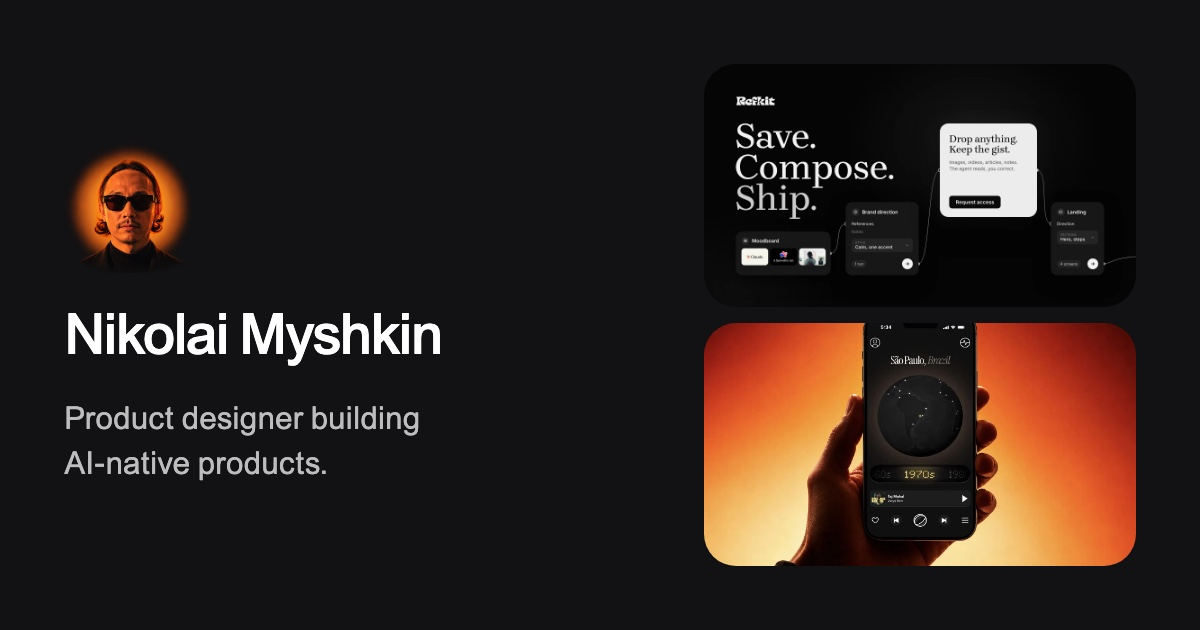
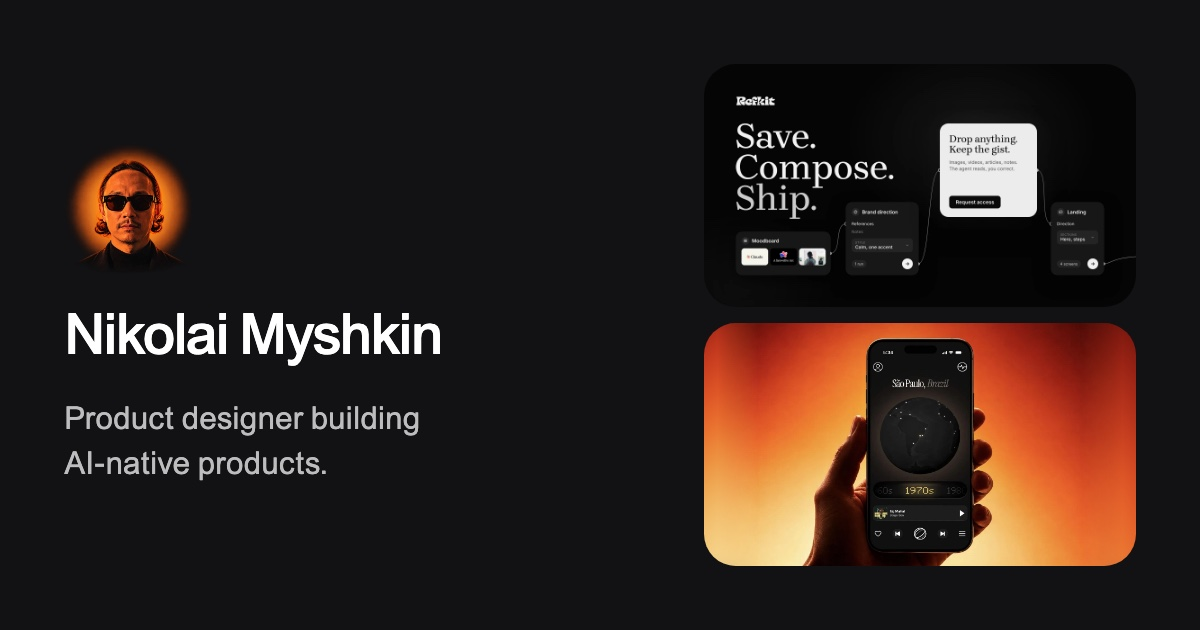
Link previews: whole Atlas phone, new Atlas case preview

Changed region(s): [[0.5858, 0.5127, 0.9558, 0.9048]]

diff --git a/case-atlas.html b/case-atlas.html
@@ -8,7 +8,7 @@
     <meta property="og:url" content="https://niko-myshkin.github.io/case-atlas.html" />
     <meta property="og:title" content="Atlas · Music Time Machine" />
     <meta property="og:description" content="Spin to a city, pick a decade, and hear its music. A product design case study by Nikolai Myshkin." />
-    <meta property="og:image" content="https://niko-myshkin.github.io/og-atlas.jpg" />
+    <meta property="og:image" content="https://niko-myshkin.github.io/og-atlas.jpg?v=2" />
     <meta property="og:image:width" content="1200" />
     <meta property="og:image:height" content="630" />
     <meta property="og:image:alt" content="Atlas case study: a phone with the Atlas music app" />

diff --git a/index.html b/index.html
@@ -8,7 +8,7 @@
     <meta property="og:url" content="https://niko-myshkin.github.io/" />
     <meta property="og:title" content="Nikolai Myshkin · Product designer" />
     <meta property="og:description" content="Product designer building AI-native products: research, UX, visual design and code." />
-    <meta property="og:image" content="https://niko-myshkin.github.io/og-image.jpg" />
+    <meta property="og:image" content="https://niko-myshkin.github.io/og-image.jpg?v=2" />
     <meta property="og:image:width" content="1200" />
     <meta property="og:image:height" content="630" />
     <meta property="og:image:alt" content="Nikolai Myshkin with covers of Refkit and Atlas" />
